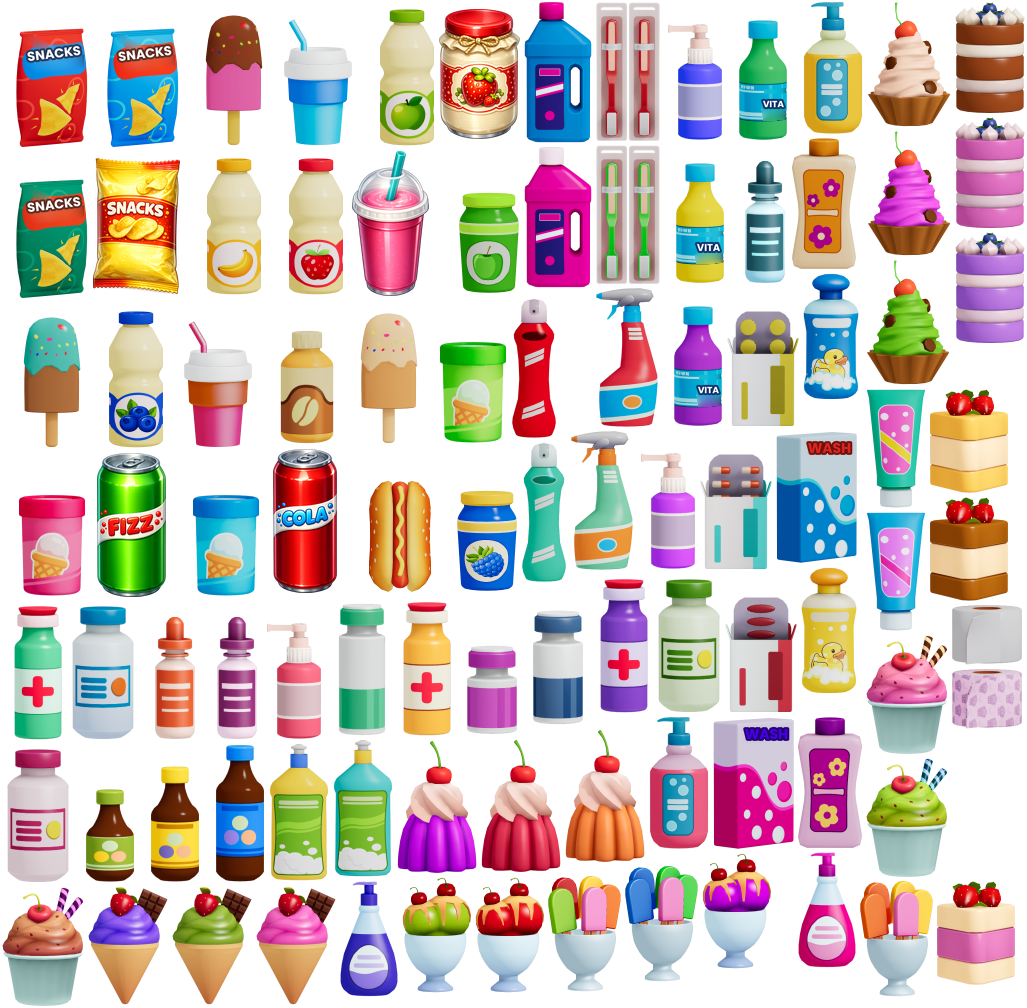
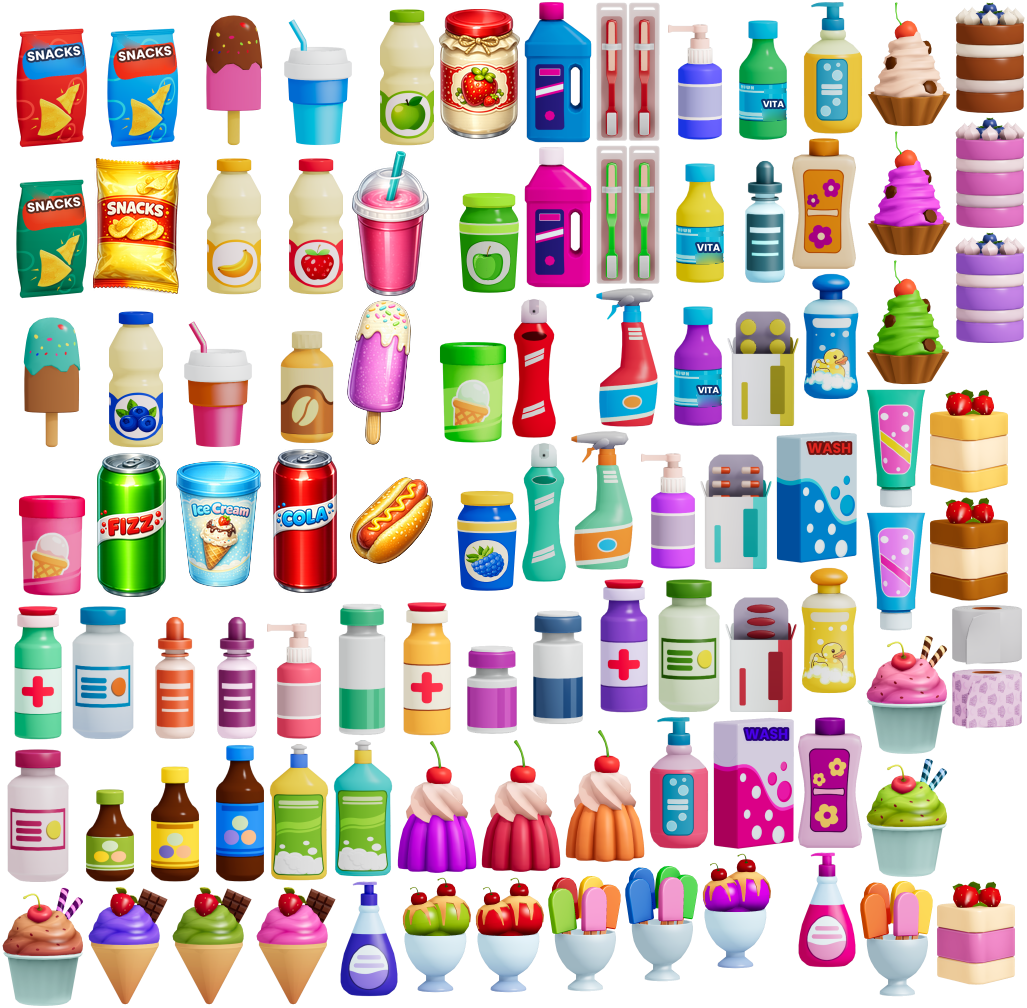
Add files via upload

Changed region(s): [[0.3116, 0.2768, 0.4362, 0.5843], [0.1558, 0.4306, 0.2804, 0.6151]]

diff --git a/index.html b/index.html
@@ -23,20 +23,20 @@
       - azerion-libs.js + azerion-integration-sdk.js -> sdk-stub.js (offline)
         (os SDKs reais estao em /vendor para estudo)
   -->
-  <script src="sdk-stub.js?v=53"></script>
+  <script src="sdk-stub.js?v=54"></script>
   <script src="libs/phaser.min.js" defer="true"></script>
-  <script src="boot-counter-bridge.js?v=53" defer="defer"></script>
-  <script src="shop-bridge.js?v=53" defer="defer"></script>
-  <script src="pause-bridge.js?v=53" defer="defer"></script>
-  <script src="settings-bridge.js?v=53" defer="defer"></script>
-  <script src="levelend-bridge.js?v=53" defer="defer"></script>
-  <script src="menu-bridge.js?v=53" defer="defer"></script>
-  <script src="plus-coins-bridge.js?v=53" defer="defer"></script>
-  <script src="daily-reward-bridge.js?v=53" defer="defer"></script>
-  <script src="gameplay-score-bridge.js?v=53" defer="defer"></script>
-  <script src="combo-legend-bridge.js?v=53" defer="defer"></script>
-  <script src="ranking-bridge.js?v=53" defer="defer"></script>
-  <script defer="defer" src="game/grocery-store.min.js?v=53"></script>
+  <script src="boot-counter-bridge.js?v=54" defer="defer"></script>
+  <script src="shop-bridge.js?v=54" defer="defer"></script>
+  <script src="pause-bridge.js?v=54" defer="defer"></script>
+  <script src="settings-bridge.js?v=54" defer="defer"></script>
+  <script src="levelend-bridge.js?v=54" defer="defer"></script>
+  <script src="menu-bridge.js?v=54" defer="defer"></script>
+  <script src="plus-coins-bridge.js?v=54" defer="defer"></script>
+  <script src="daily-reward-bridge.js?v=54" defer="defer"></script>
+  <script src="gameplay-score-bridge.js?v=54" defer="defer"></script>
+  <script src="combo-legend-bridge.js?v=54" defer="defer"></script>
+  <script src="ranking-bridge.js?v=54" defer="defer"></script>
+  <script defer="defer" src="game/grocery-store.min.js?v=54"></script>
 </head>
 <body>
   <!-- header/menu do portal yahoo removido (iframe externo que nao carrega local) -->